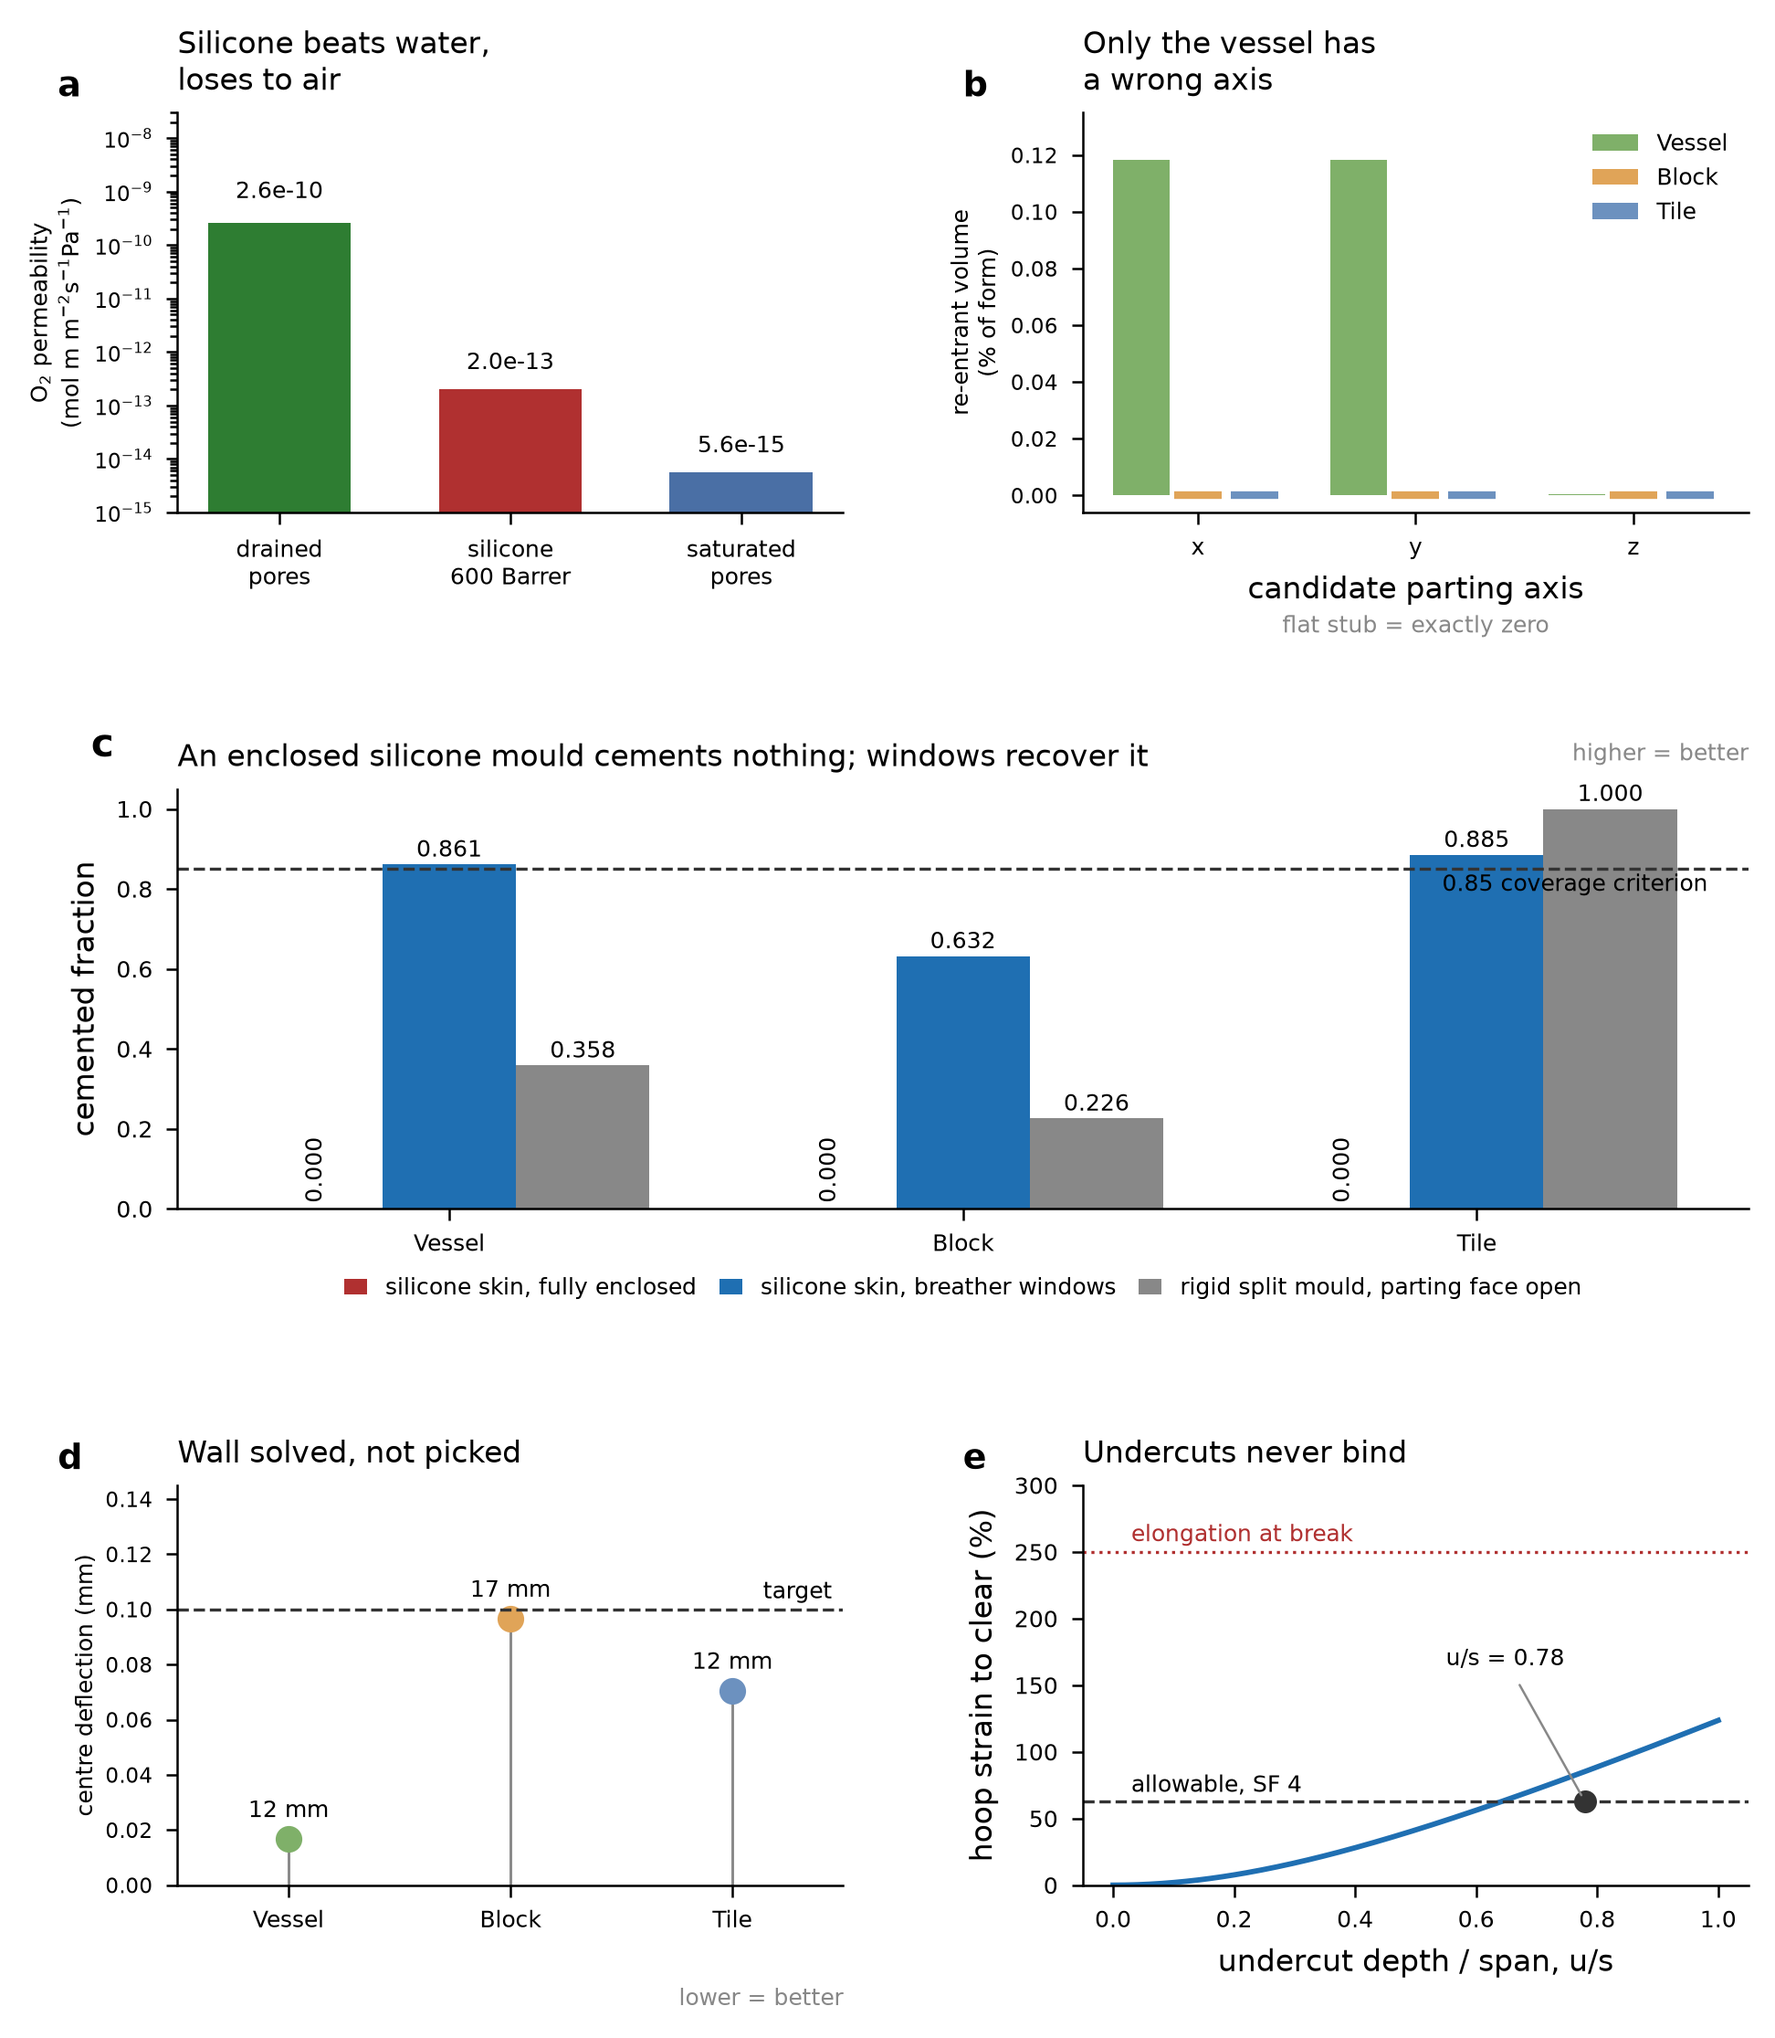
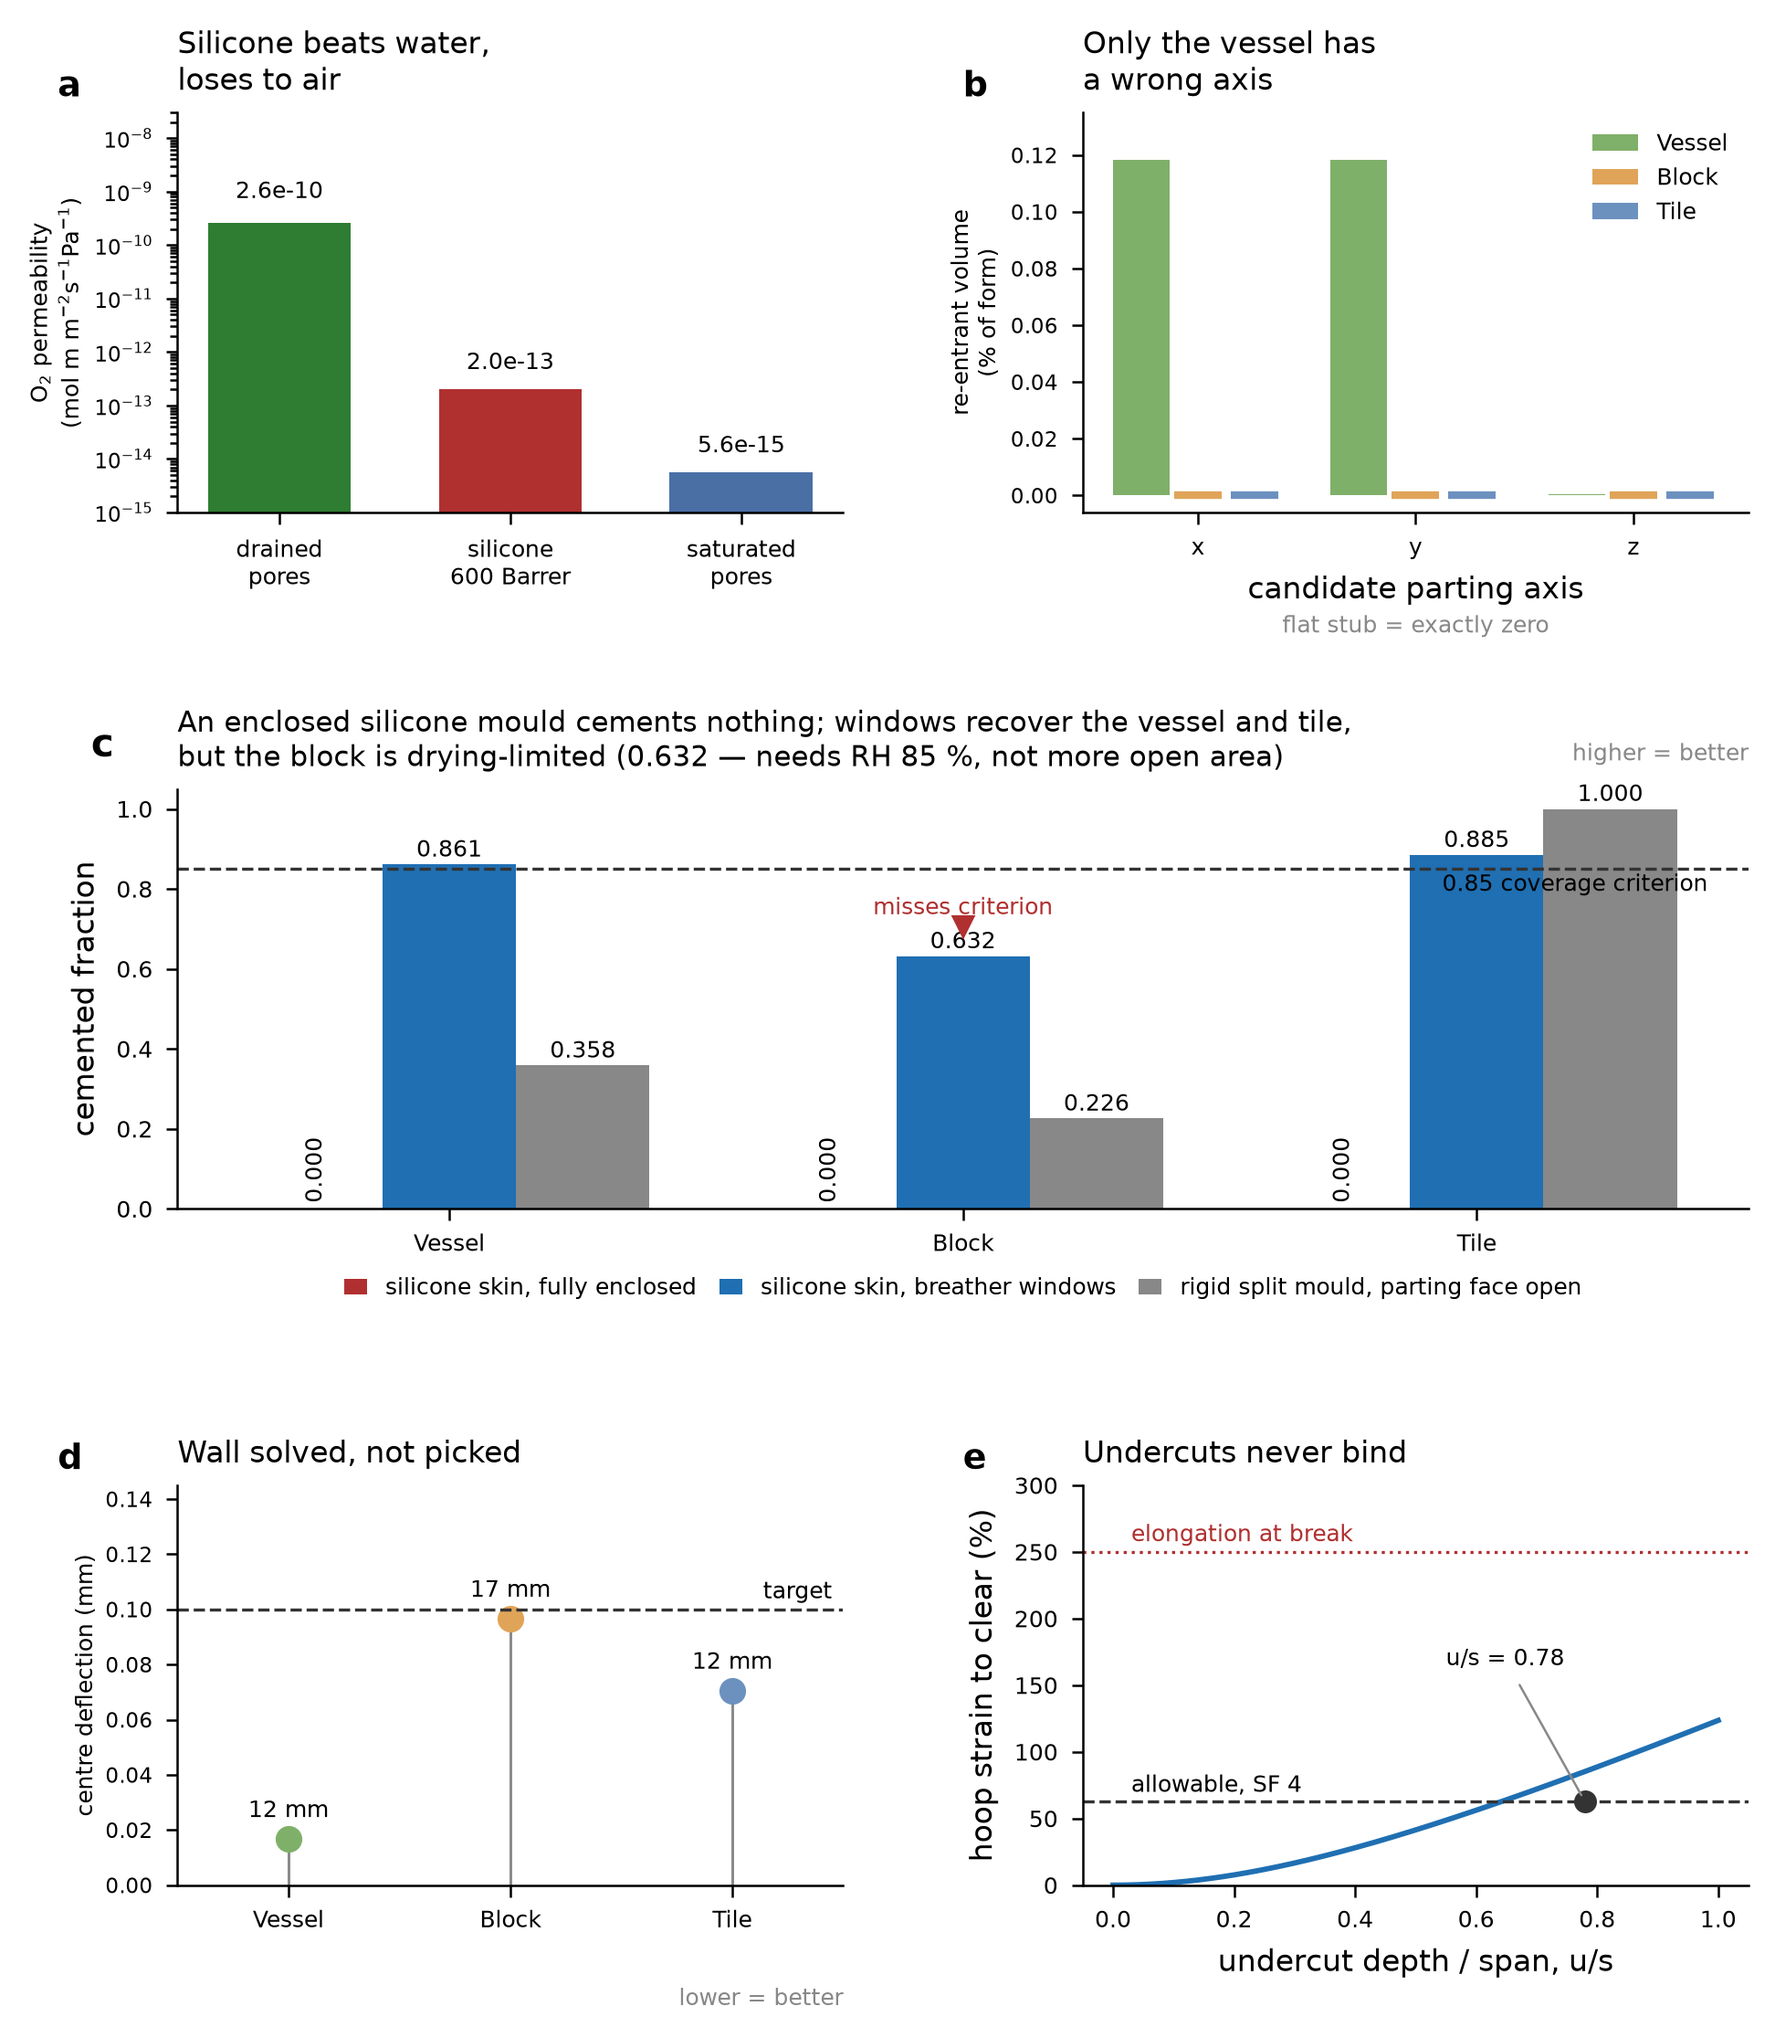
Fix overview figure panel (c): title generalised success the block does not have
The panel title claimed windows 'recover it' while the block's own plotted
bar sits at 0.632, ~22 points below the 0.85 criterion drawn in the same
panel. Title now names which typologies recover and states the block's
binding limit (drying, not window area — RH 85 % reaches 0.85), the block
bar carries a 'misses criterion' marker, and the figure caption in the
design record repeats the exception.

Changed region(s): [[0.0926, 0.3402, 0.7407, 0.4021], [0.4938, 0.433, 0.5864, 0.4639]]

diff --git a/docs/mould_auto_notes.md b/docs/mould_auto_notes.md
@@ -10,6 +10,10 @@ for the wrong reason produces a mould that cements nothing.
 
 ![Automatic mould generation, both paths](figures/mould_auto_overview.png)
 
+*Panel (c) is the result to read first. Windows recover the vessel (0.861) and
+tile (0.885) past the 0.85 criterion; the block reaches only 0.632 and is marked
+as missing it, because its limit is drying rather than open area — see §11.*
+
 ---
 
 ## Part I — rigid (FDM) path
